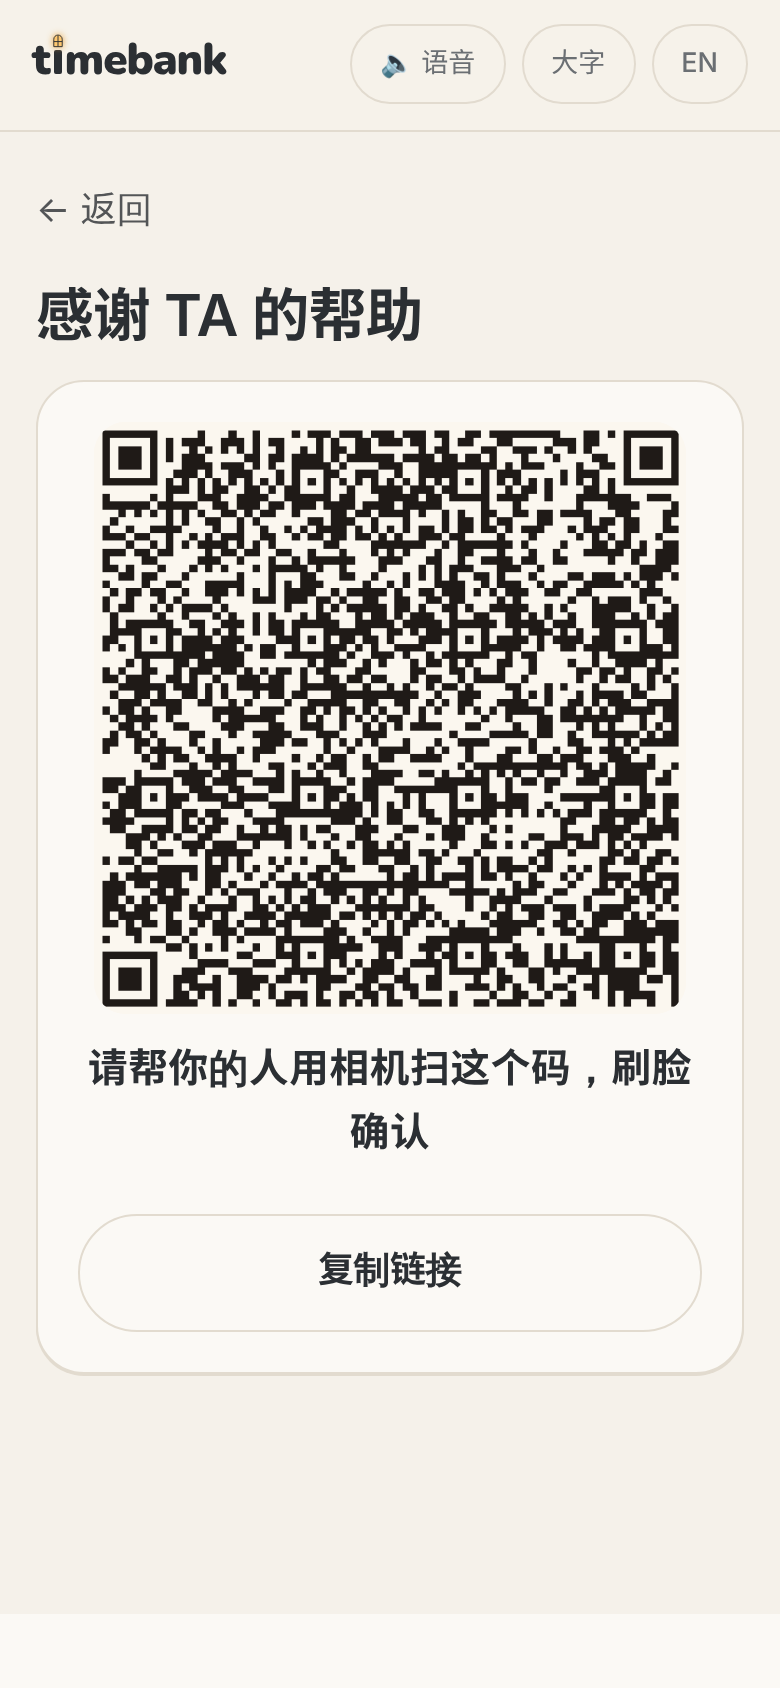
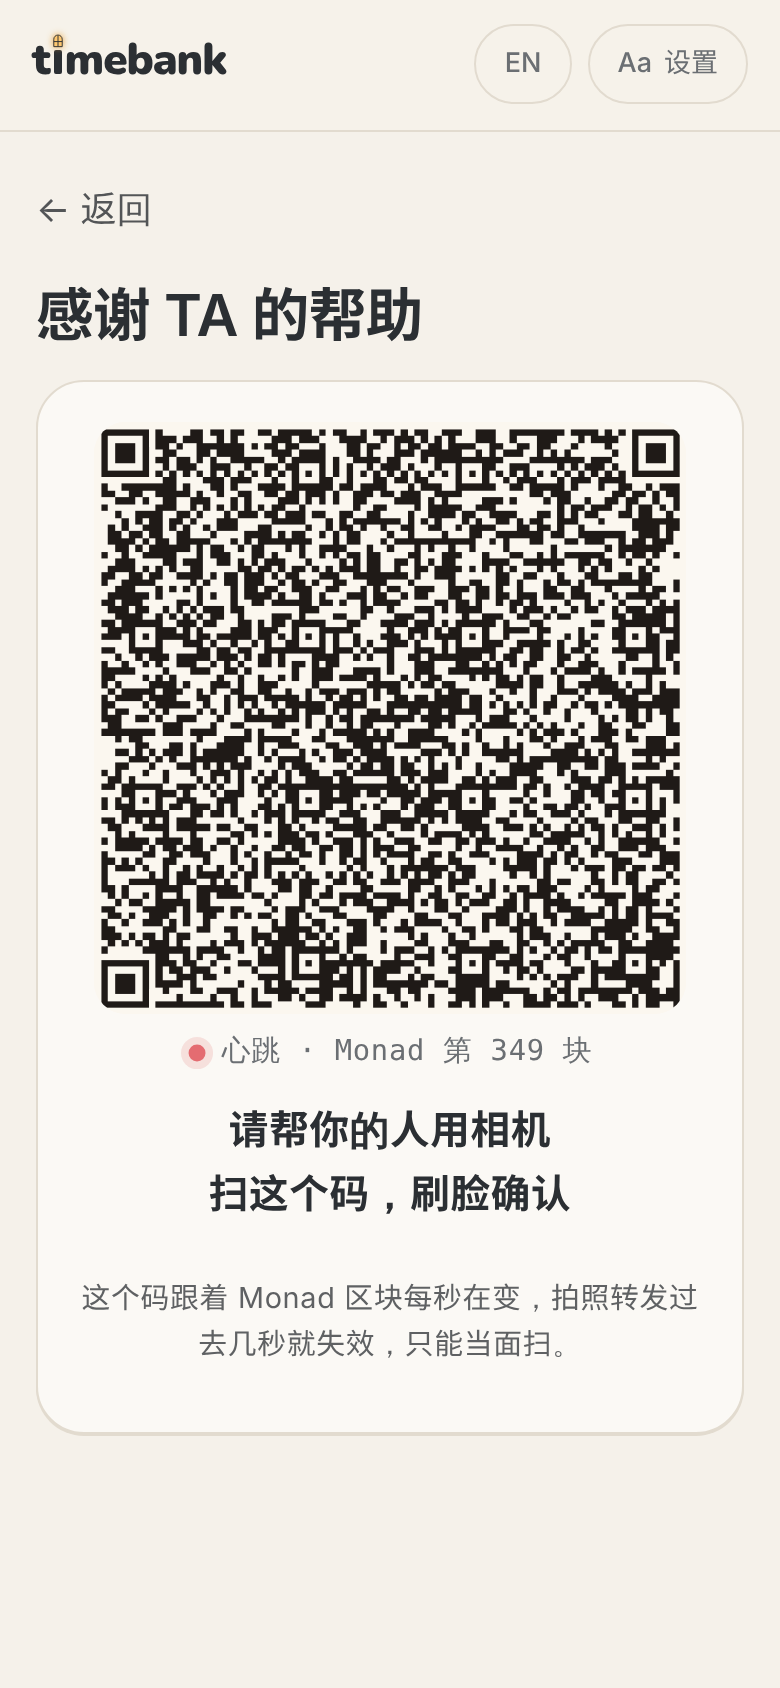
UI polish: receiver sees the seal land, cleaner wrapping, no negative minutes
- The thank-you screen now notices when the helper's seal lands (the
  receiver's nonce moves on) and shows its own celebration instead of
  staying on the QR forever.
- Home links ("门外是谁 / 家人 / 捐时间") no longer break one character
  per line; family balances no longer split mid-word; headings and
  instructions use balanced wrapping.
- Minutes present at the door are clamped at 0 when the phone's clock
  is behind the chain.
- Shorter rescan prompt; e2e checks the receiver's screen too.

Claude-Session: https://claude.ai/code/session_019kHN3d4sz5BC1b2Eo3WTHs

diff --git a/web/src/App.tsx b/web/src/App.tsx
@@ -183,7 +183,7 @@ function useArrival(visitId: Hex | null | undefined, helper: Hex, secret?: Hex) 
       .then((v) =>
         setArrival(
           v.visitor === helper && !v.closed && v.start
-            ? { start: v.start, minutes: Math.floor((chain.nowSeconds() - v.start) / 60), atHome: secret ? arrivalTag(secret, v.nonce) === v.tag : null }
+            ? { start: v.start, minutes: Math.max(0, Math.floor((chain.nowSeconds() - v.start) / 60)), atHome: secret ? arrivalTag(secret, v.nonce) === v.tag : null }
             : null
         )
       )
@@ -565,7 +565,8 @@ function Thank({ s, lang, phase, me, helper }: Ctx & { me: Me; helper: Hex }) {
   const [redeem, setRedeem] = useState(false);
   const [balance, setBalance] = useState(0);
   const [payload, setPayload] = useState("");
-  const [live, setLive] = useState<{ digest: Hex; key: PrivateKeyAccount } | null>(null);
+  const [live, setLive] = useState<{ digest: Hex; key: PrivateKeyAccount; nonce: number } | null>(null);
+  const [landed, setLanded] = useState(false);
   const { busy, error, run } = useAsync();
   useEffect(() => {
     chain.getMember(me.id).then((m) => setBalance(m.balance)).catch(() => undefined);
@@ -579,14 +580,44 @@ function Thank({ s, lang, phase, me, helper }: Ctx & { me: Me; helper: Hex }) {
       // A throwaway key, kept only in this page's memory, that this screen uses to draw a new
       // heartbeat code every second. Face ID approves exactly this key, so no other screen can.
       const key = privateKeyToAccount(generatePrivateKey());
+      const { nonce } = await chain.getMember(me.id);
       const digest = await chain.inPersonDigest(q, key.address);
       const { assertion } = await signAs(digest, me.id);
       const p: SealPayload = { h: helper, r: me.id, m: minutes, c: category, d: redeem, v: q.visitId, t: q.deadline, a: assertion, k: key.address };
-      setLive({ digest, key });
+      setLive({ digest, key, nonce });
       setPayload(encodeSealPayload(p));
     });
 
-  useSpeakOnShow(payload ? s.showToHelper : `${s.thankTitle}。${s.whatHelp}`);
+  // The receiver's own screen learns the seal landed when their nonce moves on.
+  useEffect(() => {
+    if (!live || landed) return;
+    const t = window.setInterval(() => {
+      chain
+        .getMember(me.id)
+        .then((m) => {
+          if (m.nonce > live.nonce) {
+            setLanded(true);
+            setTimeout(stampFeedback, 300);
+          }
+        })
+        .catch(() => undefined);
+    }, 1500);
+    return () => clearInterval(t);
+  }, [live, landed, me.id]);
+
+  useSpeakOnShow(landed ? `${s.sealed}。${s.thankLanded}` : payload ? s.showToHelper : `${s.thankTitle}。${s.whatHelp}`);
+  if (landed) {
+    return (
+      <Screen s={s}>
+        <div className="center celebrate">
+          <Garland phase={phase} left={tileFor(category)} right={TILE.you} />
+          <h1>{s.sealed}</h1>
+          <p className="quote">{s.thankLanded}</p>
+          <button className="secondary" onClick={() => go("/")}>{s.home}</button>
+        </div>
+      </Screen>
+    );
+  }
   if (payload && live) {
     return (
       <Screen s={s} title={s.thankTitle} onBack={() => (setPayload(""), setLive(null))}>

diff --git a/web/src/i18n.ts b/web/src/i18n.ts
@@ -119,7 +119,8 @@ const zh = {
   heartbeatHint: "这个码跟着 Monad 区块每秒在变，拍照转发过去几秒就失效，只能当面扫。",
   heartbeatBlock: (n: string) => `心跳 · Monad 第 ${n} 块`,
   faceToFace: "当面盖印",
-  scanAgain: "再对准 TA 手机上的码扫一下，确认你们在一起",
+  scanAgain: "码过期了，再对准 TA 屏幕上跳动的码扫一下",
+  thankLanded: "TA 刷脸确认了。这段时间已经记在 Monad 链上，谢谢你说出来。",
   codeStale: "码已经过期了。请站在 TA 身边，对准 TA 屏幕上正在跳动的码重新扫。",
   receiptLive: (blocks: number) => `当面证明：扫到的码只比上链早 ${blocks} 个区块`,
   cardNeeded: "请扫描家人卡上的二维码，到门口的提醒才能发给家人。",
@@ -281,7 +282,8 @@ const en: Strings = {
   heartbeatHint: "This code changes every second with Monad's blocks. A forwarded photo dies within seconds, so it only works face to face.",
   heartbeatBlock: (n: string) => `Heartbeat · Monad block ${n}`,
   faceToFace: "Face to face",
-  scanAgain: "Point your camera at their screen once more to show you're together",
+  scanAgain: "That code aged out. Scan the live code on their screen once more",
+  thankLanded: "They confirmed with Face ID. This time is now recorded on Monad. Thank you for saying thanks.",
   codeStale: "That code is too old. Stand with them and scan the live code on their screen.",
   receiptLive: (blocks: number) => `Proven in person: the code was ${blocks} blocks old when it landed`,
   cardNeeded: "Scan the QR code on their family card so their family can be told you're at the door.",

diff --git a/web/src/styles.css b/web/src/styles.css
@@ -1976,3 +1976,33 @@ body {
   color: #b8423f;
   font-weight: 600;
 }
+
+/* ---------- wrapping polish ---------- */
+h1,
+h2,
+.instruction,
+.quote {
+  text-wrap: balance;
+}
+.sky-meta {
+  flex-wrap: wrap;
+  row-gap: 6px;
+}
+.sky-meta strong,
+.sky-links .link,
+.family-actions .link {
+  white-space: nowrap;
+}
+.sky-links {
+  flex-wrap: wrap;
+  column-gap: 14px;
+  row-gap: 4px;
+}
+.family-name {
+  flex: 1;
+  min-width: 0;
+}
+.family-name small {
+  display: block;
+  white-space: nowrap;
+}
